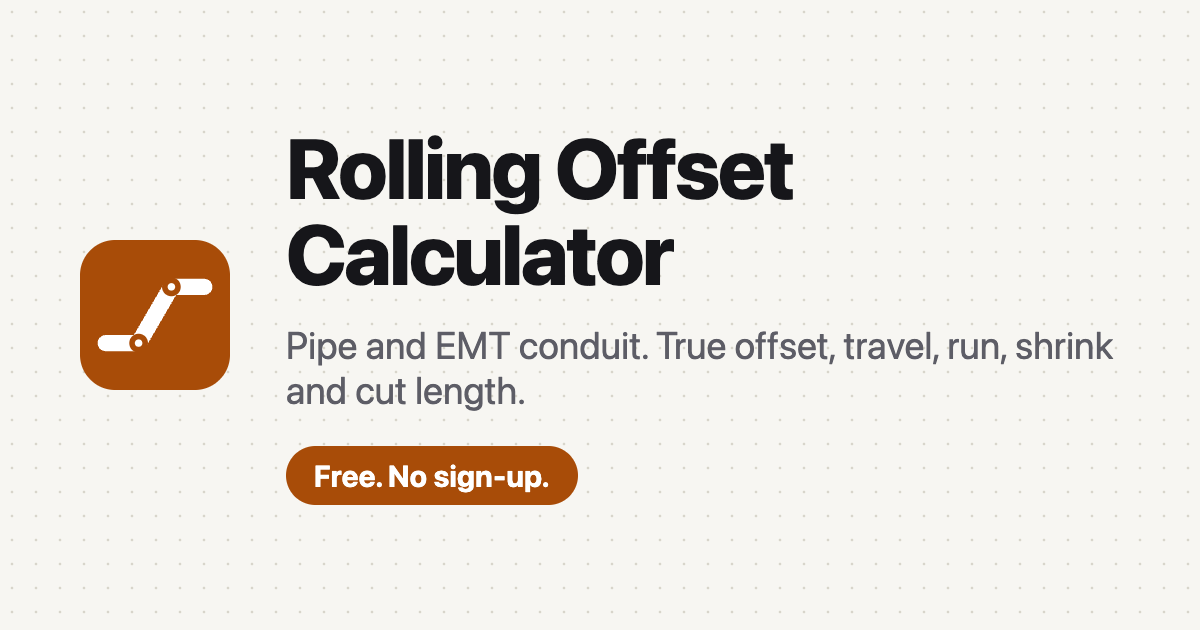
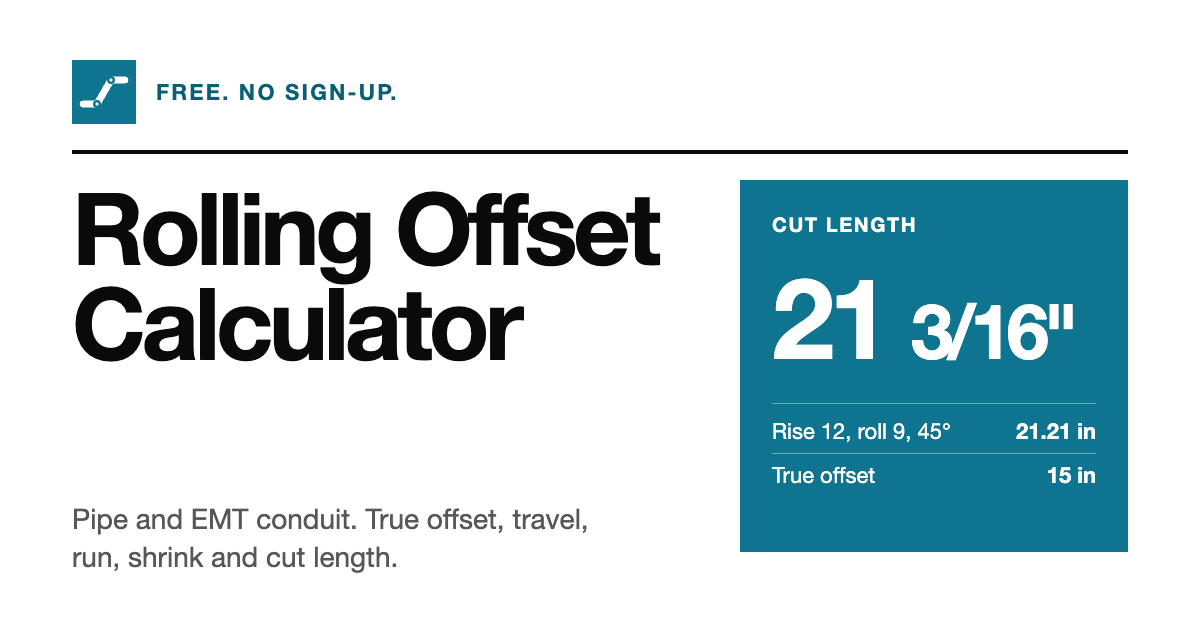
Restyle: Swiss skin and accent #0e7490

diff --git a/src/styles/skin-swiss.css b/src/styles/skin-swiss.css
@@ -1,0 +1,71 @@
+/* Skin: Swiss. Open page, black rules, no radius, no shadow, huge result number.
+   Tokens first, then surface rules. Switched by data-skin="swiss" on <html>. */
+:root[data-skin="swiss"] {
+  --paper: #ffffff;
+  --card: #ffffff;
+  --ink: #0a0a0a;
+  --muted: #575757;
+  --line: #c9c9c9;          /* hairlines, decoration only */
+  --edge: #0a0a0a;          /* input and button edges (WCAG 1.4.11) */
+  --fill: #f2f2f2;          /* input and output fill */
+  --brand-ink: color-mix(in oklab, var(--brand) 88%, black);
+  --brand-soft: #f2f2f2;
+  --font-sans: "Helvetica Neue", Helvetica, Arial, ui-sans-serif, system-ui, -apple-system, "Segoe UI", Roboto, sans-serif;
+}
+:root[data-skin="swiss"][data-theme="dark"] {
+  --paper: #0b0b0b;
+  --card: #0b0b0b;
+  --ink: #f4f4f4;
+  --muted: #a8a8a8;
+  --line: #3a3a3a;
+  --edge: #f4f4f4;
+  --fill: #1a1a1a;
+  --brand-ink: color-mix(in oklab, var(--brand) 50%, white);
+  --brand-soft: #1a1a1a;
+}
+:root[data-skin="swiss"][data-theme] :focus-visible { outline: 3px solid var(--brand-ink); outline-offset: 2px; border-radius: 0; }
+
+/* Header and hero */
+:root[data-skin="swiss"][data-theme] header { border-bottom: 2px solid var(--ink); background: var(--paper); backdrop-filter: none; }
+:root[data-skin="swiss"][data-theme] header img { border-radius: 0; }
+:root[data-skin="swiss"][data-theme] header nav a { border-radius: 0; }
+:root[data-skin="swiss"][data-theme] header nav a[aria-current="page"] { background: none; box-shadow: inset 0 -3px 0 var(--brand-ink); }
+:root[data-skin="swiss"][data-theme] #theme-toggle { border-radius: 0; border: 1px solid var(--edge); background: var(--paper); }
+:root[data-skin="swiss"][data-theme] main > section:first-child > p:first-child { padding: 0; background: none; border-radius: 0; text-transform: uppercase; letter-spacing: .08em; font-size: .75rem; font-weight: 700; color: var(--brand-ink); }
+:root[data-skin="swiss"][data-theme] main h1 { font-weight: 700; letter-spacing: -0.04em; line-height: .96; font-size: clamp(2.5rem, 6vw, 4.5rem); max-width: 18ch; }
+:root[data-skin="swiss"][data-theme] main > section:first-child > h1 + p { max-width: 60ch; }
+:root[data-skin="swiss"][data-theme] footer { border-top: 2px solid var(--ink); }
+:root[data-skin="swiss"][data-theme] .prose-site h2 { font-weight: 700; letter-spacing: -0.03em; border-top: 2px solid var(--ink); padding-top: .75rem; }
+:root[data-skin="swiss"][data-theme] .prose-site th { background: var(--fill); }
+:root[data-skin="swiss"][data-theme] .prose-site th, :root[data-skin="swiss"][data-theme] .prose-site td { border-bottom-color: var(--line); }
+:root[data-skin="swiss"][data-theme] #faq-h { border-top: 2px solid var(--ink); padding-top: .75rem; }
+
+/* Tool shell: no card, no shadow */
+:root[data-skin="swiss"][data-theme] #tool { border: 0; border-top: 2px solid var(--ink); border-radius: 0; box-shadow: none; background: transparent; padding-inline: 0; }
+:root[data-skin="swiss"][data-theme] #tool :where(button, input, select, textarea, div, form, section, fieldset, dl, figure, label, span, a, svg, p, small, b) { border-radius: 0; }
+
+/* Rolling offset tool */
+:root[data-skin="swiss"][data-theme] #tool .seg { background: transparent; padding: 0; gap: 0; border: 1px solid var(--edge); outline: 0; }
+:root[data-skin="swiss"][data-theme] #tool .seg button { color: var(--ink); }
+:root[data-skin="swiss"][data-theme] #tool .seg button[aria-pressed="true"] { background: var(--ink); color: var(--paper); outline: 0; box-shadow: none; }
+:root[data-skin="swiss"][data-theme] #tool .fld { border: 0; border-bottom: 2px solid var(--edge); background: var(--fill); }
+:root[data-skin="swiss"][data-theme] #tool .fld:focus { border-bottom-color: var(--brand-ink); box-shadow: none; outline: 3px solid var(--brand-ink); outline-offset: 2px; }
+:root[data-skin="swiss"][data-theme] #tool .chip { border: 1px solid var(--edge); background: transparent; color: var(--ink); }
+:root[data-skin="swiss"][data-theme] #tool .chip:hover { background: var(--fill); border-color: var(--edge); }
+:root[data-skin="swiss"][data-theme] #tool .chip[aria-checked="true"] { background: var(--ink); border-color: var(--ink); color: var(--paper); }
+:root[data-skin="swiss"][data-theme] #tool .btn { border: 1px solid var(--edge); background: transparent; color: var(--ink); }
+:root[data-skin="swiss"][data-theme] #tool .btn:hover { background: var(--fill); border-color: var(--edge); }
+:root[data-skin="swiss"][data-theme] #tool [data-only] { border: 0; border-top: 2px solid var(--ink); padding: .75rem 0 0; }
+:root[data-skin="swiss"][data-theme] #tool #inputs > * + * { margin-top: 1.25rem; }
+:root[data-skin="swiss"][data-theme] #tool .lbl, :root[data-skin="swiss"][data-theme] #tool [data-only] > p:first-child { text-transform: uppercase; letter-spacing: .07em; font-size: .75rem; }
+:root[data-skin="swiss"][data-theme] #tool .res { border: 0; border-top: 2px solid var(--ink); background: transparent; padding: .6rem 0 .5rem; }
+:root[data-skin="swiss"][data-theme] #tool .res b { font-size: 2rem; letter-spacing: -.03em; font-weight: 700; }
+:root[data-skin="swiss"][data-theme] #tool .res-main { background: transparent; }
+:root[data-skin="swiss"][data-theme] #tool .res-main b { font-size: 2.75rem; }
+:root[data-skin="swiss"][data-theme] #tool .res-key { background: var(--brand); border: 0; padding: .9rem 1rem; grid-column: 1 / -1; }
+:root[data-skin="swiss"][data-theme] #tool .res-key b { font-size: 3.5rem; letter-spacing: -.045em; }
+:root[data-skin="swiss"][data-theme] #tool #extra { border-color: var(--ink); }
+:root[data-skin="swiss"][data-theme] #tool .blueprint { border: 0; border-top: 2px solid var(--ink); background-image: none; background-color: transparent; padding: .75rem 0 0; }
+:root[data-skin="swiss"][data-theme] .sticky-bar { background: var(--paper); border-top: 2px solid var(--ink); box-shadow: none; }
+:root[data-skin="swiss"][data-theme] .sticky-bar .s-key b { color: var(--ink); }
+:root[data-skin="swiss"][data-theme] #tool .seg button, :root[data-skin="swiss"][data-theme] #tool .chip, :root[data-skin="swiss"][data-theme] #tool .btn, :root[data-skin="swiss"][data-theme] #tool .fld, :root[data-skin="swiss"][data-theme] #tool .res { border-radius: 0; }

diff --git a/src/styles/global.css b/src/styles/global.css
@@ -1,4 +1,5 @@
 @import "tailwindcss" source(none);
+@import "./skin-swiss.css";
 @source "../";
 @custom-variant dark (&:where([data-theme="dark"], [data-theme="dark"] *));
 
@@ -11,6 +12,7 @@
   --color-ink: var(--ink);
   --color-muted: var(--muted);
   --color-line: var(--line);
+  --color-edge: var(--edge);
   --font-sans: ui-sans-serif, system-ui, -apple-system, "Segoe UI", Roboto, "Helvetica Neue", Arial, sans-serif;
   --font-mono: ui-monospace, "SF Mono", Menlo, Consolas, monospace;
 }
@@ -22,6 +24,7 @@
   --ink: #16161a;
   --muted: #5d5d66;
   --line: #e2e0d8;
+  --edge: #878c93;
   --brand-ink: color-mix(in oklab, var(--brand) 82%, black);
   --brand-soft: color-mix(in oklab, var(--brand) 10%, var(--paper));
 }
@@ -32,6 +35,7 @@
   --ink: #ececea;
   --muted: #a0a0a8;
   --line: #2a2b30;
+  --edge: #6b7078;
   --brand-ink: color-mix(in oklab, var(--brand) 55%, white);
   --brand-soft: color-mix(in oklab, var(--brand) 18%, var(--paper));
 }

diff --git a/src/site.config.ts b/src/site.config.ts
@@ -13,7 +13,8 @@ export default {
   email: 'hello@rollingoffsetcalculator.com',       // contact email (shown on Contact and Privacy pages)
   ga4: '',                            // GA4 measurement ID, e.g. 'G-XXXXXXXXXX'. Empty = Google Analytics off
   adsense: '',                        // AdSense publisher ID, e.g. 'ca-pub-1234567890123456'. Empty = ads off
-  brand: '#a84c08',                   // brand color (hex). Dark enough for 4.5:1 contrast with white text
+  brand: '#0e7490',                   // brand color (hex). Dark enough for 4.5:1 contrast with white text
+  skin: 'swiss',                      // visual skin: minimal, swiss, clay or retro
   locale: 'en-US',                    // BCP 47 language tag
   ogImage: 'og.png',                         // file in public/ (1200x630), no leading slash. Empty = no image
   ogAlt: 'Rolling offset calculator for pipe and EMT conduit',  // alt text for the preview image
